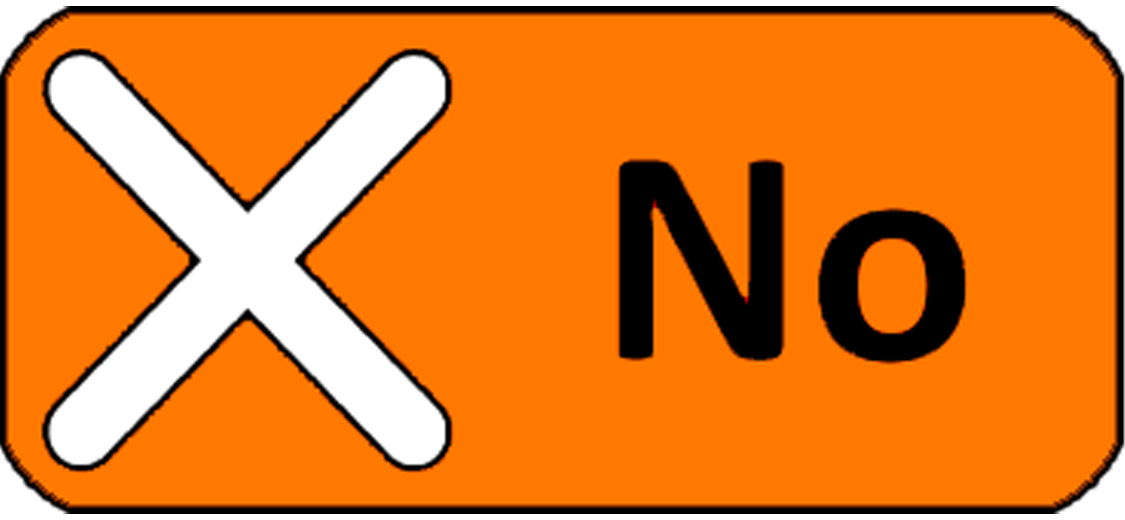
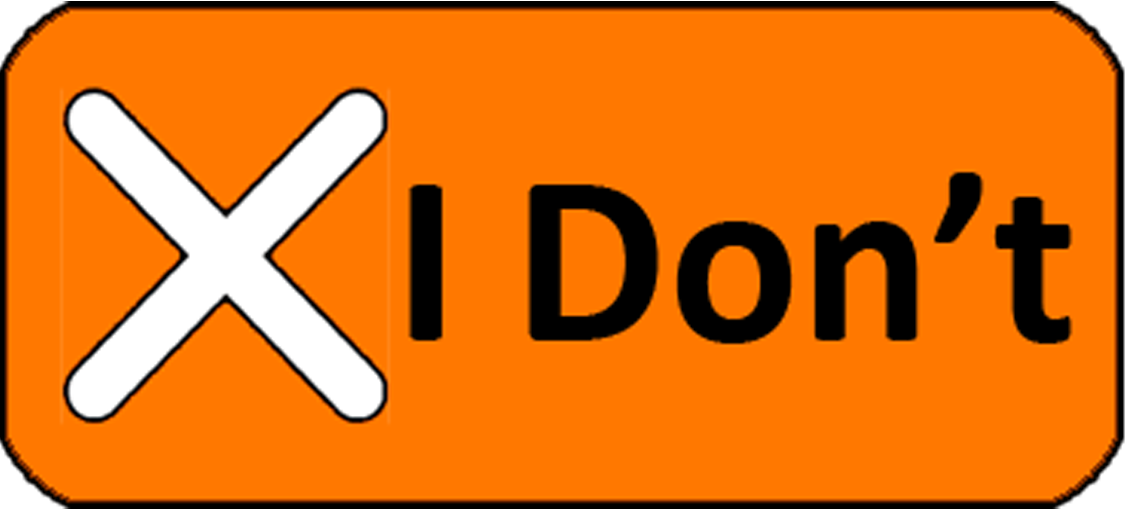
updated to current version

Changed region(s): [[0.0, 0.0, 1.0, 1.0], [0.4667, 0.2941, 0.9644, 0.7059]]

diff --git a/frontend/public/daily-choice2.html b/frontend/public/daily-choice2.html
@@ -14,10 +14,10 @@
     <!-- functions to read the text using meSpeak.js -->
     <script>
         function readText() {
-            meSpeak.speak("Can you pick what time to get up in the morning");
+            meSpeak.speak("Do you pick what time to get up in the morning");
         }
         function readText1() {
-            meSpeak.speak("Yes or no");
+            meSpeak.speak("I do or I don't");
         }
         function readText2() {
             meSpeak.speak("I don't know or am unsure");
@@ -32,10 +32,10 @@
 <a href="#" onclick="readText();"><img src="sound.png" width="150" height="150" class="a"></a>
 
 
-<h1 class = "a">Can you pick what time to get up in the morning?</h1>
+<h1 class = "a">Do you pick what time to get up in the morning?</h1>
 <br>
 <div class = "a">
-<img src= "dc2.png" width = "675" height = "675" >
+<img src= "dc2.png" width = "675" height = "675" class="b" >
 </div>
 <br>
 <div class = "a">
@@ -46,7 +46,7 @@
     <a href="#" onclick="readText2();"><img src="sound.png" width="150" height="150" class=""></a>
     <a href="daily-choice2.html"><img src= "idk.png" width = "600" height = "150" ></a>
     </div>
-<br>
+
 <br>
 <a href="daily-choice1.html"><img src= "back.png" width = "150" height = "150" ></a>
 <a href="daily-choice3.html"><img src= "forward.png" width = "150" height = "150" class = "a"></a>

diff --git a/frontend/public/daily-choice1.html b/frontend/public/daily-choice1.html
@@ -14,10 +14,10 @@
     <!-- functions to read the text using meSpeak.js -->
     <script>
         function readText() {
-            meSpeak.speak("Can you choose when you go to bed ");
+            meSpeak.speak("Do you choose when you go to bed ");
         }
 		function readText1() {
-            meSpeak.speak("Yes or no");
+            meSpeak.speak("I do or I don't");
         }
         function readText2() {
             meSpeak.speak("I don't know or am unsure");
@@ -32,10 +32,10 @@
 <a href="#" onclick="readText();"><img src="sound.png" width="150" height="150" class="a"></a>
 
 
-<h1 class = "a">Can you choose when you go to bed ?</h1>
+<h1 class = "a">Do you choose when you go to bed ?</h1>
 <br>
 <div class = "a">
-<img src= "sleep.png" width = "675" height = "675" >
+<img src= "sleep.png" width = "675" height = "675" class="b">
 </div>
 <br>
 <div class = "a">
@@ -46,7 +46,7 @@
 <a href="#" onclick="readText2();"><img src="sound.png" width="150" height="150" class=""></a>
 <a href="daily-choice2.html"><img src= "idk.png" width = "600" height = "150" ></a>
 </div>
-<br>
+
 <br>
 <a href="index.html"><img src= "back.png" width = "150" height = "150" ></a>
 <a href="daily-choice2.html"><img src= "forward.png" width = "150" height = "150" class = "a"></a>

diff --git a/frontend/public/daily-choice3.html b/frontend/public/daily-choice3.html
@@ -14,10 +14,10 @@
     <!-- functions to read the text using meSpeak.js -->
     <script>
         function readText() {
-            meSpeak.speak("Can you pick what clothes you can wear?");
+            meSpeak.speak("Do you pick what clothes you can wear?");
         }
         function readText1() {
-            meSpeak.speak("Yes or no");
+            meSpeak.speak("I do or I don't");
         }
         function readText2() {
             meSpeak.speak("I don't know or am unsure");
@@ -32,10 +32,10 @@
 <a href="#" onclick="readText();"><img src="sound.png" width="150" height="150" class="a"></a>
 
 
-<h1 class = "a">Can you pick what clothes you can wear?</h1>
+<h1 class = "a">Do you pick what clothes you can wear?</h1>
 <br>
 <div class = "a">
-<img src= "dc3.png" width = "675" height = "675" >
+<img src= "dc3.png" width = "675" height = "675" class="b" >
 </div>
 <br>
 <div class = "a">
@@ -47,7 +47,7 @@
     <a href="daily-choice2.html"><img src= "idk.png" width = "600" height = "150" ></a>
     </div>
 <br>
-<br>
+
 <a href="daily-choice2.html"><img src= "back.png" width = "150" height = "150" ></a>
 <a href="daily-choice4.html"><img src= "forward.png" width = "150" height = "150" class = "a"></a>
 

diff --git a/frontend/public/daily-choice4.html b/frontend/public/daily-choice4.html
@@ -14,10 +14,10 @@
     <!-- functions to read the text using meSpeak.js -->
     <script>
         function readText() {
-            meSpeak.speak("Are you helped to reach your goals");
+            meSpeak.speak("Do you get helped to reach your goals");
         }
         function readText1() {
-            meSpeak.speak("Yes or no");
+            meSpeak.speak("I do or I don't");
         }
         function readText2() {
             meSpeak.speak("I don't know or am unsure");
@@ -32,10 +32,10 @@
 <a href="#" onclick="readText();"><img src="sound.png" width="150" height="150" class="a"></a>
 
 
-<h1 class = "a">Are you helped to reach your goal?</h1>
+<h1 class = "a">Do you get help to reach your goal?</h1>
 <br>
 <div class = "a">
-<img src= "dc4.png" width = "675" height = "675" >
+<img src= "dc4.png" width = "675" height = "675" class="b">
 </div>
 <br>
 <div class = "a">
@@ -47,7 +47,7 @@
     <a href="daily-choice2.html"><img src= "idk.png" width = "600" height = "150" ></a>
     </div>
 <br>
-<br>
+
 <a href="daily-choice3.html"><img src= "back.png" width = "150" height = "150" ></a>
 <a href="daily-choice5.html"><img src= "forward.png" width = "150" height = "150" class = "a"></a>
 

diff --git a/frontend/public/daily-choice6.html b/frontend/public/daily-choice6.html
@@ -14,7 +14,7 @@
     <!-- functions to read the text using meSpeak.js -->
     <script>
         function readText() {
-            meSpeak.speak("Can you choose when you eat");
+            meSpeak.speak("I do or I don't");
         }
         function readText1() {
             meSpeak.speak("Yes or no");
@@ -32,10 +32,10 @@
 <a href="#" onclick="readText();"><img src="sound.png" width="150" height="150" class="a"></a>
 
 
-<h1 class = "a">Can you choose when you eat? </h1>
+<h1 class = "a">Do you choose when you eat? </h1>
 <br>
 <div class = "a">
-<img src= "dc6.png" width = "675" height = "675" >
+<img src= "dc6.png" width = "675" height = "675" class="b">
 </div>
 <br>
 <div class = "a">
@@ -47,7 +47,7 @@
     <a href="daily-choice2.html"><img src= "idk.png" width = "600" height = "150" ></a>
     </div>
 <br>
-<br>
+
 <a href="daily-choice5.html"><img src= "back.png" width = "150" height = "150" ></a>
 <a href="daily-choice7.html"><img src= "forward.png" width = "150" height = "150" class = "a"></a>
 

diff --git a/frontend/public/daily-choice5.html b/frontend/public/daily-choice5.html
@@ -17,7 +17,7 @@
             meSpeak.speak("If you have a job, do you have rights at work");
         }
         function readText1() {
-            meSpeak.speak("Yes or no");
+            meSpeak.speak("I do or I don't");
         }
         function readText2() {
             meSpeak.speak("I don't know or am unsure");
@@ -35,7 +35,7 @@
 <h1 class = "a">If you have a job, do you have rights at work?</h1>
 <br>
 <div class = "a">
-<img src= "dc5.png" width = "675" height = "675" >
+<img src= "dc5.png" width = "675" height = "675" class="b">
 </div>
 <br>
 <div class = "a">
@@ -47,7 +47,7 @@
     <a href="daily-choice2.html"><img src= "idk.png" width = "600" height = "150" ></a>
     </div>
 <br>
-<br>
+
 <a href="daily-choice4.html"><img src= "back.png" width = "150" height = "150" ></a>
 <a href="daily-choice6.html"><img src= "forward.png" width = "150" height = "150" class = "a"></a>
 

diff --git a/frontend/public/styles.css b/frontend/public/styles.css
@@ -30,7 +30,7 @@ h1.a {
 	font-size: 100px;
 }
 img.b {
-	border: 5px solid #555;
+	border: 3px solid #555;
 }
 
 
